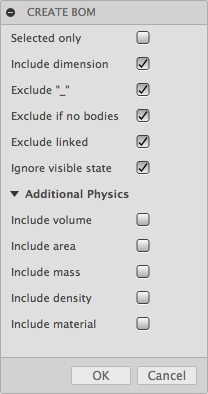
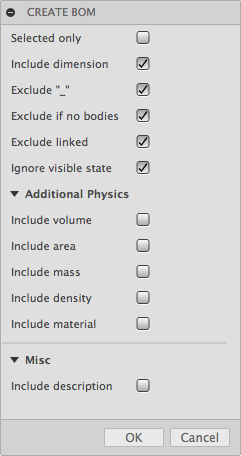
Update readme.

diff --git a/README.md b/README.md
@@ -47,6 +47,11 @@ After [installation](#installation), go to the toolbar "Create" submenu and choo
 * **Include material**
 > Includes the material names as an comma seperated list for all bodies at first level whithin a component.
 
+### Misc
+
+* **Include description**
+> Includes the component description. To edit, right click on a component and select _Properties_ in the submenu.
+
 <a id="installation"></a>
 
 ## Installation
